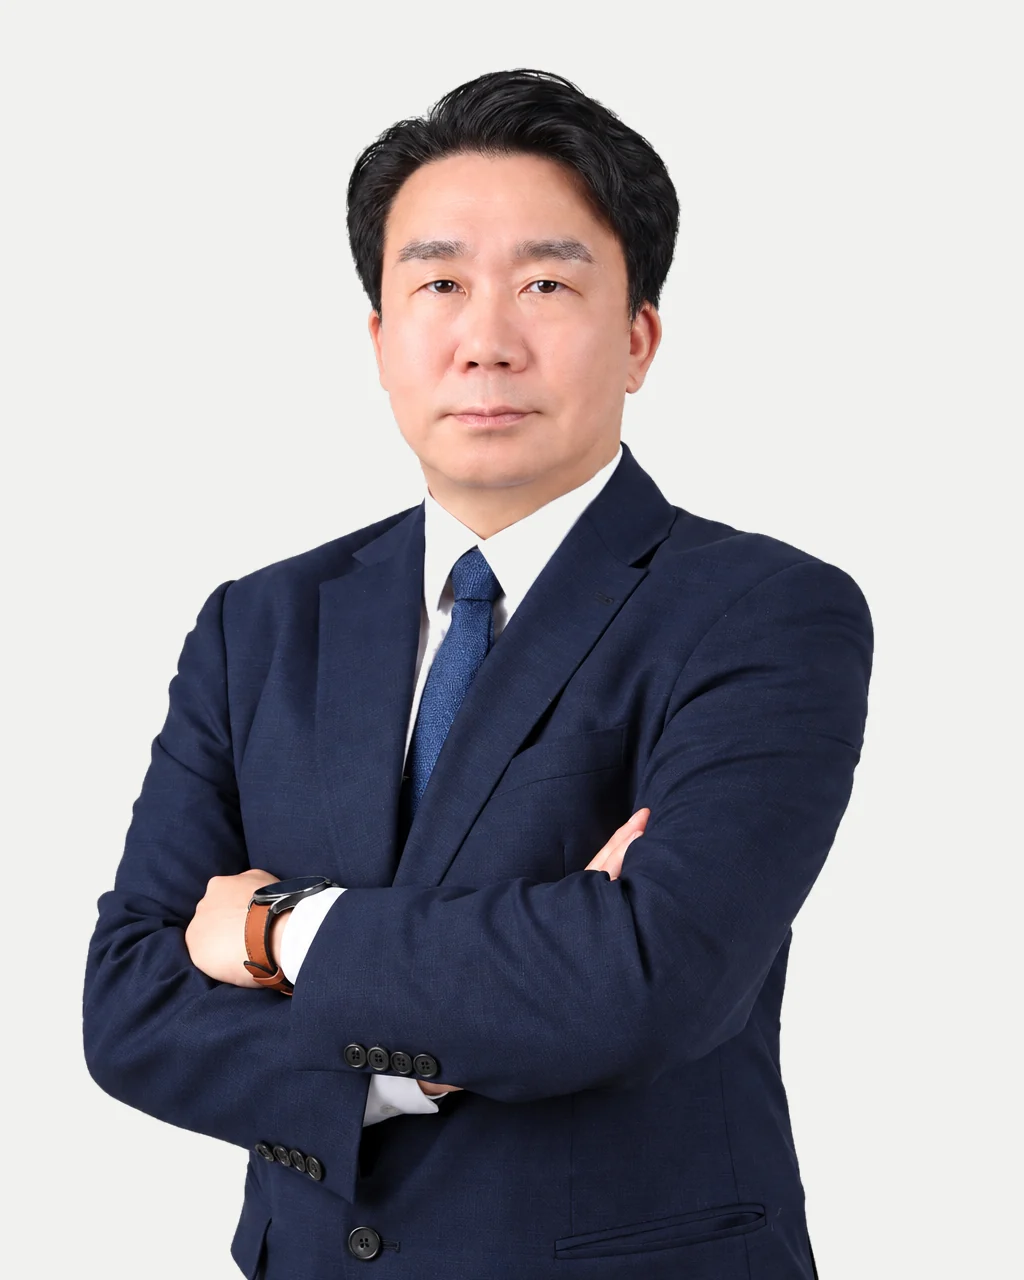
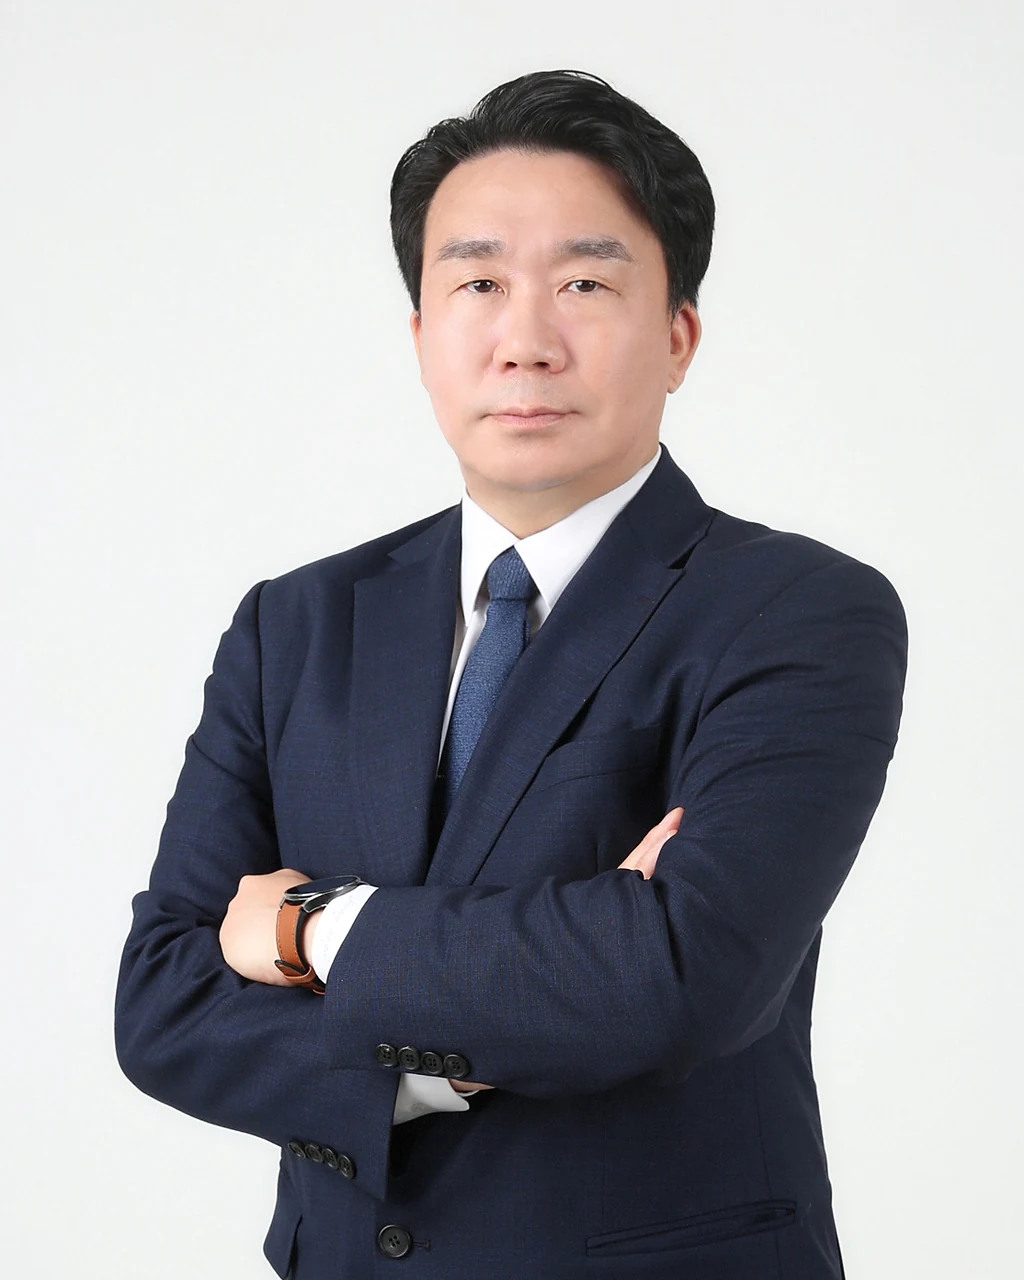
대표변호사 사진을 실제 촬영본으로 바꿨다
- assets/lawyer-01.webp        인사말 — 882×1600 (배경을 지운 컷)
- assets/lawyer-01-portrait.webp  변호인단 목록 — 1024×1280
  두 자리 모두 같은 촬영본에서 만들었다. 인사말만 바꾸면 목록 사진과
  따로 놀기 때문이다.

배경 지우는 방법을 이 사진에 맞게 고쳤다.
- 스튜디오 벽이 고르지 않아(가운데가 밝고 귀퉁이가 어둡다) 한 가지
  색으로 자를 수 없다. 줄마다 좌우 끝의 색을 재서 그 자리의 배경색을
  만들어 비교한다.
- 흰 셔츠가 벽과 거의 같은 밝기다. 그대로 두면 셔츠가 배경으로 지워져
  가슴에 구멍이 뚫린다. 그래서 "배경보다 밝은 곳은 배경이 아니다"는
  조건을 넣었다.
- 가느다란 틈으로 배경이 새어 들어가지 않게 배경 후보를 2px 깎아
  물을 붓고, 깎은 만큼만 되돌린다.

index.html 의 width 값을 새 크기(882)로 맞췄다.

Claude-Session: https://claude.ai/code/session_015eThqdZbP4isk4sBATbg6j

Changed region(s): [[0.0625, 0.0312, 0.9062, 1.0]]

diff --git a/index.html b/index.html
@@ -190,7 +190,7 @@
       <figure class="greeting-figure">
         <span class="greeting-plate" aria-hidden="true"></span>
         <img src="assets/lawyer-01.webp" alt="정호길 대표변호사"
-             width="1054" height="1600" loading="lazy">
+             width="882" height="1600" loading="lazy">
       </figure>
 
     </div>
